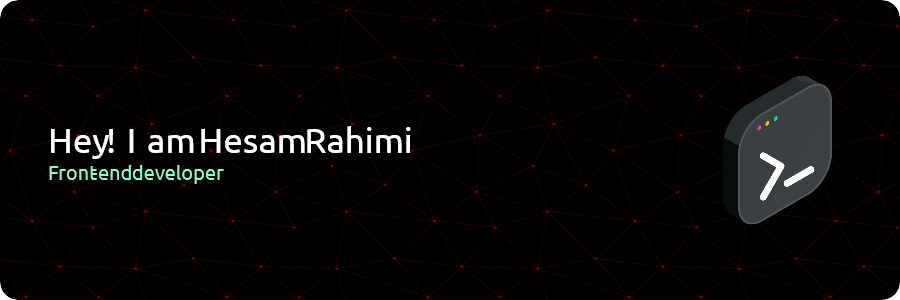
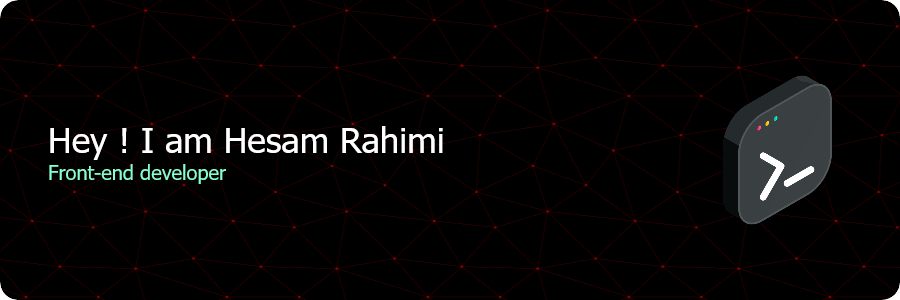
Update README.md

Changed region(s): [[0.0311, 0.42, 0.4978, 0.6]]

diff --git a/README.md b/README.md
@@ -1,12 +1,11 @@
+![Header](./github-header.png)
 
-<h1 align="center">Hi there👋, I'm Hesam Rahimi</h1>
 <p align="start">I am a front-end developer who has been working in this field since 2022. I am eager to learn and improve my skills in designing and developing user-friendly websites, and I am interested in collaborating on team projects to deliver effective front-end solutions.</p>
 
 <h3 align="left">My Technical Skills:</h3>
   <img alt="skills" src="https://skillicons.dev/icons?i=js,react,nextjs,ts,redux,git,tailwind,bootstrap,materialui" />
   <img alt="skills" src="https://skillicons.dev/icons?i=vite,css,html,git,github,postman,vscode" />
 
-    
 <h3 align="left">Connect with me:</h3>
 <p align="left" style="display: flex; align-items:center">
 <a href="https://linkedin.com/in/starc007" target="blank" style="margin-left:15px"><img align="center" src="https://raw.githubusercontent.com/rahuldkjain/github-profile-readme-generator/master/src/images/icons/Social/linked-in-alt.svg" alt="starc007" height="30" width="30" /></a>
